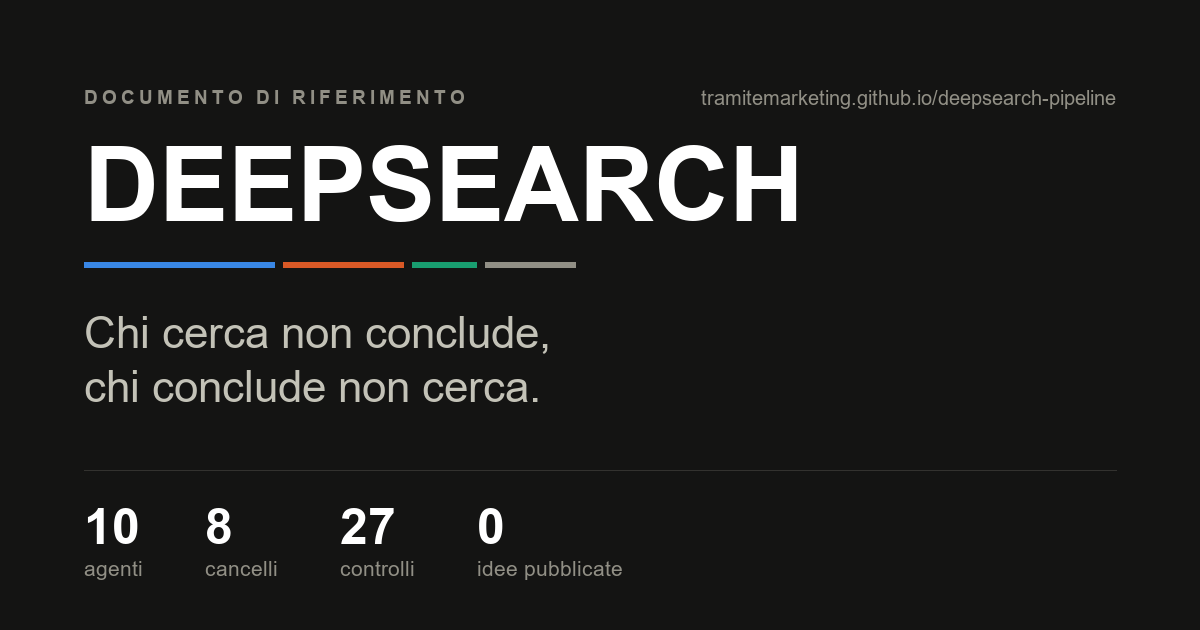
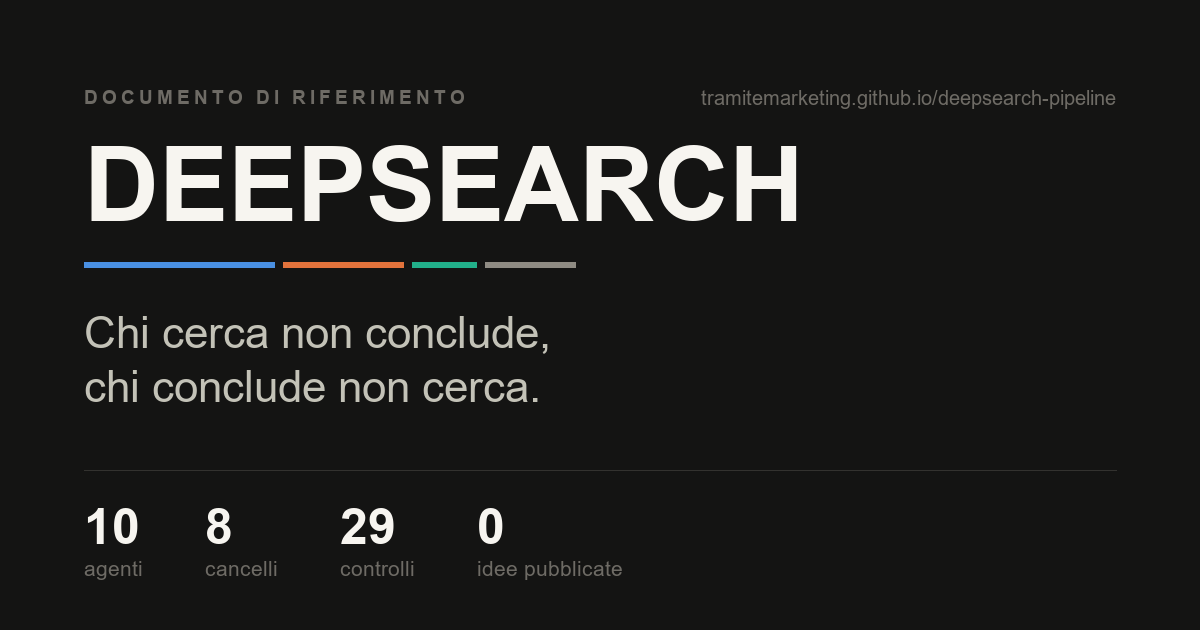
I controlli erano 28, non 27 — e nessuno poteva accorgersene
Tre documenti e due immagini dichiaravano "27 controlli" mentre il registro ne
conteneva 28. L'errore nasce sommando i tre nuovi a una base contata male:
SC-01..SC-24 invece di SC-00..SC-24. E' esattamente la classe di difetto che
questo progetto esiste per impedire — un numero scritto a mano che diverge dal
file che dovrebbe contarlo — commessa sull'artefatto pubblico.

Nessun controllo poteva vederlo per due motivi, entrambi riparati:

- le pagine HTML servite da Pages erano fuori dal perimetro di spec_check. Sono
  la prosa piu' normativa che esista: descrivono il sistema di oggi a chi non lo
  conosce. Ora le legge SC-28. Solo SC-28: estenderle a tutti i controlli faceva
  sparare SC-06 sull'etichetta di ondata "W7" letta come criterio competitor, e
  un controllo che sbaglia viene spento entro la settimana.
- nessuno confrontava il numero dichiarato con il registro. Ora e' SC-28, che e'
  la stessa forma di SC-09 applicata al verificatore stesso.

Aggiungere il controllo che conta i controlli ne ha aggiunto uno: 29. I numeri
delle due anteprime sono ora GENERATI leggendo spec_check.py e il suo autotest,
non scritti a mano — che e' l'unico modo perche' non tornino a divergere.

Il verbale di red team entra fra gli STORICI: e' per natura una fotografia.

spec_check 0 errori su 29 · autotest 62 su 62.

diff --git a/index.html b/index.html
@@ -908,7 +908,7 @@ nessuno verifica si stacca da sola dai file che dovrebbe governare</em>.</p>
 <table>
 <thead><tr><th>Strumento</th><th>Cosa fa</th></tr></thead>
 <tbody>
-<tr><td><code>spec_check.py</code></td><td><strong>Il verificatore di specifica: 27 controlli</strong> che confrontano configurazione, schemi, prompt degli agenti, orchestratore e regole globali <em>fra loro</em>, e segnalano dove si contraddicono. È il primo comando di ogni run: se esce con un errore, <strong>il run non parte</strong>.</td></tr>
+<tr><td><code>spec_check.py</code></td><td><strong>Il verificatore di specifica: 29 controlli</strong> che confrontano configurazione, schemi, prompt degli agenti, orchestratore e regole globali <em>fra loro</em>, e segnalano dove si contraddicono. È il primo comando di ogni run: se esce con un errore, <strong>il run non parte</strong>.</td></tr>
 <tr><td><code>spec_check_selftest.py</code></td><td>Dimostra che il verificatore non è cieco: rimette dentro, su una copia usa-e-getta, i difetti realmente accaduti nella storia del progetto e pretende che vengano ripresi. Sei corpus separati — 61 difetti, 61 ripresi — perché i difetti inventati dall'autore dei controlli passano per costruzione e non dimostrano niente.</td></tr>
 <tr><td><code>run_close.py</code></td><td>Chiude un run e ne dichiara la validità confrontando i numeri del rapporto con i registri. Due fasi: una prima del rapporto, una dopo — ed è solo la seconda ad autorizzare la scrittura in memoria.</td></tr>
 <tr><td><code>reconcile_run.py</code></td><td>Separa il guasto amministrativo dalla fabbricazione: una fonte raccolta ma mai registrata è riparabile senza rifare una ricerca; una citazione che nessuno ha mai incontrato no.</td></tr>

diff --git a/flusso.html b/flusso.html
@@ -374,7 +374,7 @@ h1 em{font-style:italic; color:var(--grigio)}
 </div>
 
 <div class="piede">
-  <span>10 agenti · 7 ondate · 8 cancelli · 27 controlli di specifica · 61 mutazioni di autotest</span>
+  <span>10 agenti · 7 ondate · 8 cancelli · 29 controlli di specifica · 61 mutazioni di autotest</span>
   <span><a href="./">documento di riferimento</a> · <a href="https://github.com/tramitemarketing/deepsearch-pipeline">codice</a></span>
 </div>
 

diff --git a/tools/spec_check.py b/tools/spec_check.py
@@ -92,7 +92,7 @@ def tutti_gli_schemi():
 # loro mestiere. Lintarli contro il config di oggi produce solo rumore, e un verificatore rumoroso
 # viene ignorato, che e' il modo in cui un verificatore muore. Restano fuori dai controlli che
 # confrontano numeri e riferimenti; entrano solo dove il passato non puo' mentire.
-STORICI = ("COLLAUDO-", "RIPENSAMENTO-", "MIGLIORIE.md", "CHANGELOG")
+STORICI = ("COLLAUDO-", "RIPENSAMENTO-", "MIGLIORIE.md", "CHANGELOG", "RED-TEAM-")
 
 # Via d'uscita esplicita, per riga. Un esempio didattico ("unclassified_ratio = 0.66 -> PARK") e un
 # valore osservato in una narrazione sono legittimi e indistinguibili da una soglia per qualunque
@@ -109,6 +109,7 @@ def file_di_prosa(solo_normativi=False):
     # sopravvissuto per due versioni il vocabolario inglese (PUBLISHED) che il config dichiarava
     # eliminato. Un file normativo fuori dal perimetro e' un file che nessuno confronta.
     f += [os.path.join(ROOT, "state", "README.md")]
+
     out = [(os.path.relpath(p, ROOT), leggi(p)) for p in f if os.path.exists(p)]
     if solo_normativi:
         out = [(n, t) for n, t in out if not e_storico(n)]
@@ -122,6 +123,16 @@ def e_storico(nome):
 
 def normativi(prosa):
     return [(n, t) for n, t in prosa if not e_storico(n)]
+
+
+def pagine_pubblicate():
+    """Le pagine HTML servite da Pages: descrivono il sistema di OGGI a chi non lo conosce.
+
+    Non entrano nel perimetro generale — SC-06 leggerebbe l'etichetta di ondata "W7" come un
+    criterio competitor mai dichiarato, e un controllo che spara a vuoto viene disattivato molto
+    prima di uno che tace. Le legge solo chi ha una ragione precisa per farlo."""
+    return [(os.path.relpath(x, ROOT), leggi(x))
+            for x in sorted(glob.glob(os.path.join(ROOT, "*.html")))]
 
 
 def cammina(o, prefisso=""):
@@ -1615,6 +1626,40 @@ def sc27_kill_automatici_hanno_una_severity(cfg, prosa, schemi):
                     ".claude/agents/")
 
 
+def sc28_quanti_controlli_dice_di_avere(prosa):
+    """
+    Il verificatore verifica tutti tranne il numero che lo descrive.
+
+    E' la stessa forma di SC-09 — "N rami dichiarati contro le righe elencate" — applicata a
+    questo strumento. Un numero scritto a mano in prosa diverge dal file che dovrebbe contare, e
+    nessuno se ne accorge perche' ogni file preso da solo e' coerente: e' la tesi dell'intero
+    progetto, e valeva anche qui.
+
+    Trovato pubblicando la pagina di riferimento: tre documenti e due immagini dichiaravano
+    "27 controlli" mentre il registro ne conteneva 28. L'errore nasce sommando i nuovi a una
+    base contata male (SC-01..SC-24 invece di SC-00..SC-24) — cioe' esattamente il modo in cui
+    un'enumerazione che parte da zero viene contata da chi la legge invece che da chi la esegue.
+
+    I documenti storici sono gia' fuori perimetro (normativi() li esclude), quindi qui il
+    numero deve COINCIDERE. La prima stesura ammetteva qualunque valore piu' basso come
+    "storico": con quella lettura una pagina pubblica ferma a una versione vecchia sarebbe
+    passata per sempre, ed e' il difetto che questo controllo esiste per impedire.
+    """
+    reali = len(CONTROLLI)
+    for nome, t_ in (prosa or []):
+        for m in re.finditer(r"\b(\d{1,3})\s+controlli\b", t_ or ""):
+            n = int(m.group(1))
+            riga = t_[:m.start()].count("\n") + 1
+            linea = t_.splitlines()[riga - 1] if riga <= len(t_.splitlines()) else ""
+            if IGNORA in linea:
+                continue
+            if n != reali:
+                err("SC-28", f"dichiara «{m.group(0)}» e il registro ne contiene {reali}. "
+                             "I file storici sono gia' esclusi da normativi(): qui il numero "
+                             "descrive il sistema di oggi e deve coincidere",
+                    f"{nome}:{riga}")
+
+
 CONTROLLI = {
     "SC-00": ("integrita' del contratto di verifica", lambda c, s, p: sc00_integrita_del_contratto(c)),
     "SC-01": ("riferimenti a config esistenti", lambda c, s, p: sc01_riferimenti_config(c, normativi(p))),
@@ -1644,6 +1689,7 @@ CONTROLLI = {
     "SC-25": ("tetti di budget contro budget per istanza", lambda c, s, p: sc25_tetti_contro_budget(c)),
     "SC-26": ("emettibilita' dei KILL: calcolata, non asserita", lambda c, s, p: sc26_emettibilita_dei_kill(c, normativi(p), s)),
     "SC-27": ("nessun kill automatico senza severity", lambda c, s, p: sc27_kill_automatici_hanno_una_severity(c, normativi(p), s)),
+    "SC-28": ("quanti controlli dice di avere", lambda c, s, p: sc28_quanti_controlli_dice_di_avere(normativi(p) + pagine_pubblicate())),
 }
 
 

diff --git a/tools/spec_check_selftest.py b/tools/spec_check_selftest.py
@@ -570,6 +570,15 @@ QUINTO_RUN = [
                              for k in d["competitor_thresholds"]["CALIBRATED"]["kill_if_any"]
                              if k.get("id") == "K5"])),
 
+    ("SC-28",
+     "il numero di controlli dichiarato nella pagina pubblica diverge dal registro. E' la tesi "
+     "dell'intero progetto applicata al verificatore stesso, ed e' successa davvero: tre documenti "
+     "e due immagini dicevano '27 controlli' mentre il registro ne conteneva 28 — l'errore nasce "
+     "sommando i nuovi a una base contata male (SC-01..SC-24 invece di SC-00..SC-24). Nessun "
+     "controllo poteva vederlo, perche' le pagine HTML erano fuori perimetro: erano l'unico "
+     "artefatto pubblico che nessuno confrontava.",
+     patch_ovunque("index.html", "29 controlli", "27 controlli")),
+
     ("SC-27",
      "la deroga resta in config e l'agente non ha lo slot per dichiararla: E_IL_SISTEMA_DI_RECORD "
      "tolto dall'enum severity_reason di competitor-report.schema.json. E' la sesta forma della "

diff --git a/docs/RED-TEAM-v2.14.1.md b/docs/RED-TEAM-v2.14.1.md
@@ -8,7 +8,7 @@
 
 > Analisi avversariale condotta sui file della specifica **e sui tre run reali archiviati**
 > (`20260801`, `20260802-1759`, `20260803-1204`), recuperati dalle copie di versione in `Downloads/`.
-> `spec_check.py` su questa versione esce **0 errori, 11 avvisi, 24 controlli**: tutto ciò che segue
+> `spec_check.py` su questa versione esce **0 errori, 11 avvisi, 25 controlli**: tutto ciò che segue
 > passa pulito oggi.
 >
 > Questo documento **non ripete** `RIPENSAMENTO-8-LENTI.md`. Quel documento ha diagnosticato che il

diff --git a/docs/MIGLIORIE.md b/docs/MIGLIORIE.md
@@ -822,7 +822,7 @@ producono da soli il numero che decide.
 
 Red team esterno condotto sui file **e sui tre run archiviati** (`20260801`, `20260802-1759`,
 `20260803-1204`). Il verbale completo è in `docs/RED-TEAM-v2.14.1.md`. `spec_check` sulla v2.14.1
-usciva **0 errori su 24 controlli**: tutto ciò che segue passava pulito.
+usciva **0 errori su 25 controlli**: tutto ciò che segue passava pulito.
 
 ### La tesi, che nessuna delle 8 lenti aveva formulato
 
